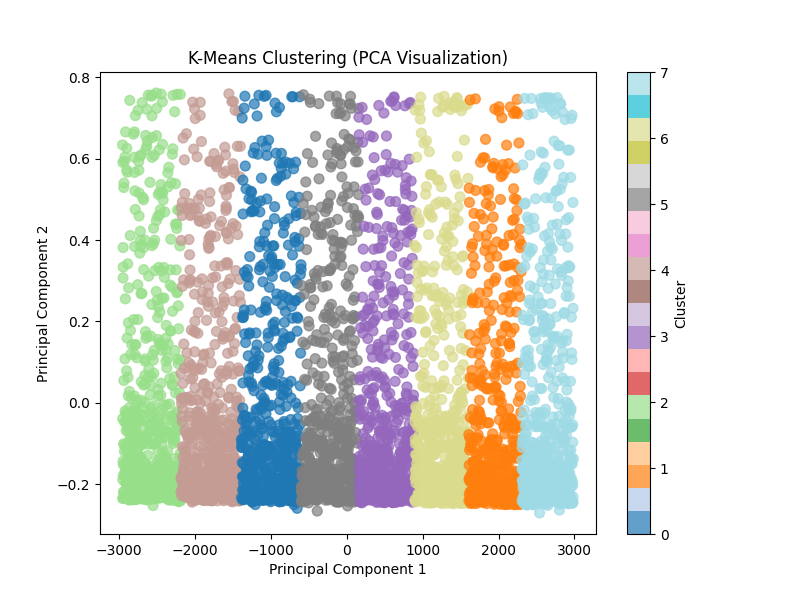
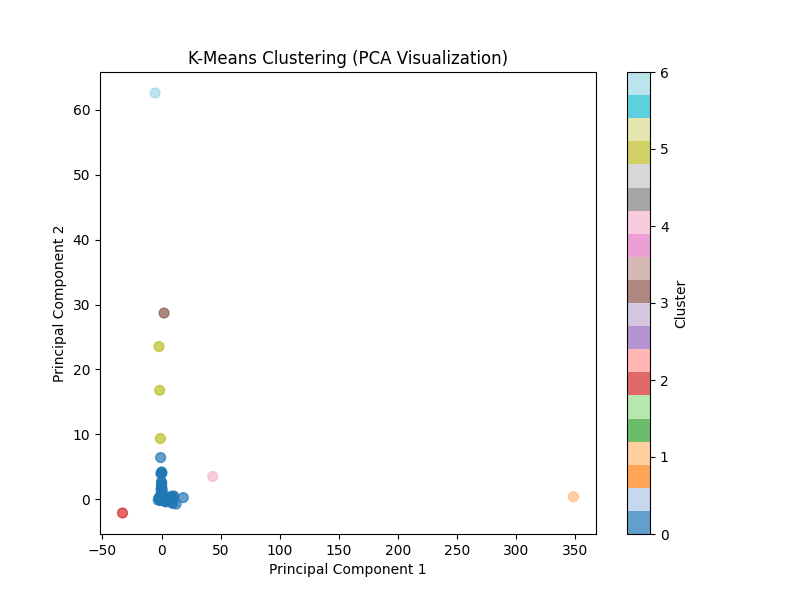
New files added

diff --git a/data_analysis.py b/data_analysis.py
@@ -1,10 +1,9 @@
 import pandas as pd
 import numpy as np
 import matplotlib.pyplot as plt
-from sklearn.preprocessing import MinMaxScaler
+from sklearn.preprocessing import StandardScaler
 from sklearn.cluster import KMeans
 from sklearn.metrics import silhouette_score
-from sklearn.manifold import TSNE
 from sklearn.decomposition import PCA
 
 data = pd.read_excel(r"D:\Project\kmeans\Dataset\Online Retail.xlsx")
@@ -20,35 +19,26 @@ for cat in cat_columns:
 
 print(data.isnull().sum())
 
-data["TotalCost"] = data["UnitPrice"] * data["Quantity"]
-reference_date = data["InvoiceDate"].max()
-customer_data_rfm = data.groupby("CustomerID").agg({
-    "InvoiceNo" : "count",
-    "TotalCost" : "sum",
-    "InvoiceDate" : lambda x: (reference_date - x.max()).days
-})
-customer_data_rfm = customer_data_rfm.rename(columns={
-    "InvoiceNo" : "frequency",
-    "TotalCost" : "monatory",
-    "InvoiceDate" : "recency"
-}).reset_index()
-print(customer_data_rfm.head())
+data = data.dropna(subset=['CustomerID'])
+data = data.drop(columns=['Description'])
+print(data.isnull().sum())
 
-scale = MinMaxScaler()
-numeric_features = ['frequency', 'monatory', 'recency']
-scaled = scale.fit_transform(customer_data_rfm[numeric_features])
-customer_data_rfm_scaled = pd.DataFrame(data=scaled, columns=['frequency', 'monatory', 'recency'])
-customer_data_rfm_scaled["CustomerID"] = customer_data_rfm["CustomerID"]
-print(customer_data_rfm_scaled)
+data['TotalPrice'] = data['Quantity'] * data['UnitPrice']
+numeric_features = ['Quantity', 'UnitPrice', 'TotalPrice']
+scaler = StandardScaler()
+data[numeric_features] = scaler.fit_transform(data[numeric_features])
+
+scaled_data = data[['CustomerID', 'Quantity', 'UnitPrice', 'TotalPrice']].drop_duplicates(subset='CustomerID')
+scaled_data = scaled_data.set_index('CustomerID')
 
 silhouette = []
 inertia = []
 K = range(2,20)
 for n in K:
     model = KMeans(n_clusters=n, random_state=42)
-    model.fit(customer_data_rfm_scaled)
+    model.fit(scaled_data)
     inertia.append(model.inertia_)
-    silhouette.append(silhouette_score(customer_data_rfm,model.labels_))
+    silhouette.append(silhouette_score(scaled_data, model.labels_))
 
 fig, axes = plt.subplots(figsize=(10,5),nrows=1,ncols=2)
 axes[0].plot(K,inertia,'bo-')
@@ -62,36 +52,21 @@ axes[1].set_ylabel("Silhouette score")
 axes[1].set_title("Silhouette analysis")
 fig.savefig(r"D:\Project\kmeans\visualisations\curvePlot.png")
 
-model = KMeans(n_clusters=8,random_state=42)
-model.fit(customer_data_rfm_scaled)
+model = KMeans(n_clusters=7,random_state=42)
+model.fit(scaled_data)
 print(np.unique(model.labels_))
-customer_data_rfm["Labels"] = model.labels_
-print(customer_data_rfm_scaled.head(10))
-print(customer_data_rfm.groupby("Labels").mean())
+print(f"Silhouette score: {silhouette_score(scaled_data, model.labels_)}")
+scaled_data["Labels"] = model.labels_
+print(scaled_data.head(10))
+print(scaled_data.groupby("Labels").mean())
 
-
-tsne = TSNE(n_components=3, random_state=42)
-X_tsne = tsne.fit_transform(customer_data_rfm_scaled)
-
-fig = plt.figure(figsize=(10, 8))
-ax = fig.add_subplot(111, projection='3d')
-
-ax.scatter(
-    X_tsne[:,0], X_tsne[:,1], X_tsne[:,2],
-    c=customer_data_rfm['Labels'], cmap='viridis', s=50, alpha=0.7
-)
-ax.set_title("3D Cluster Visualization")
-ax.set_xlabel('t-SNE Component 1')
-ax.set_ylabel('t-SNE Component 2')
-ax.set_zlabel('t-SNE Component 3')
-fig.savefig(r"D:\Project\kmeans\visualisations\3DPlot.png")
 
 pca = PCA(n_components=2)
-X_pca = pca.fit_transform(customer_data_rfm_scaled)
+X_pca = pca.fit_transform(scaled_data)
 map = "tab20"
 
 plt.figure(figsize=(8, 6))
-plt.scatter(X_pca[:, 0], X_pca[:, 1], c=customer_data_rfm['Labels'], cmap = map, s=50, alpha=0.7)
+plt.scatter(X_pca[:, 0], X_pca[:, 1], c=scaled_data['Labels'], cmap = map, s=50, alpha=0.7)
 plt.title('K-Means Clustering (PCA Visualization)')
 plt.xlabel('Principal Component 1')
 plt.ylabel('Principal Component 2')
